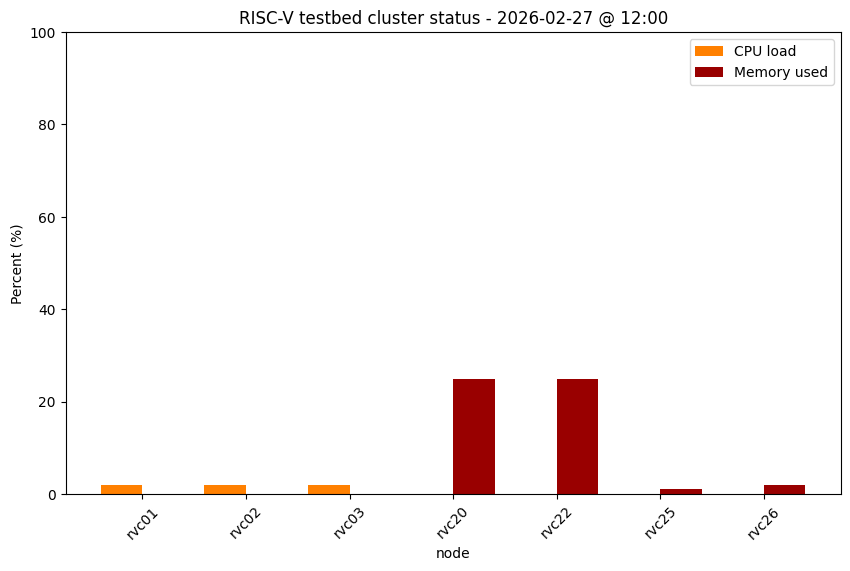
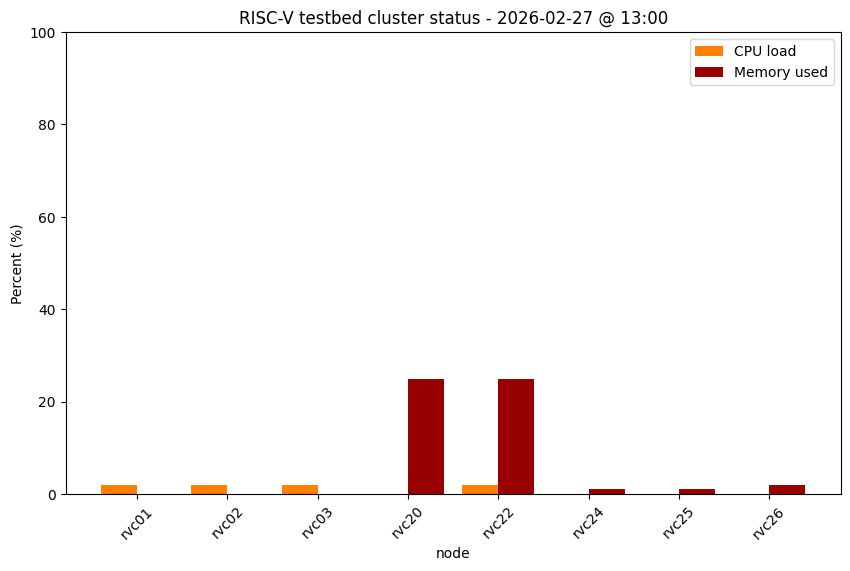
Update cluster status

diff --git a/status.md b/status.md
@@ -36,7 +36,7 @@ permalink: /status/
 | StarFive VisionFive V2 #11 | rvc21 | 4 | 8GB | <img src="/images/amber.png" alt="amber light" width="10"/> offline |
 | StarFive VisionFive V2 #12 | rvc22 | 4 | 8GB | <img src="/images/on.png" alt="green light" width="10"/> up |
 | StarFive VisionFive V2 #13 | rvc23 | 4 | 8GB | <img src="/images/amber.png" alt="amber light" width="10"/> offline |
-| Milk-V Pioneer #1 | rvc24 | 64 | 128GB | <img src="/images/off.png" alt="red light" width="10"/> down |
+| Milk-V Pioneer #1 | rvc24 | 64 | 128GB | <img src="/images/on.png" alt="green light" width="10"/> up |
 | Milk-V Pioneer #2 | rvc25 | 64 | 128GB | <img src="/images/on.png" alt="green light" width="10"/> up |
 | Milk-V Pioneer #3 | rvc26 | 64 | 128GB | <img src="/images/on.png" alt="green light" width="10"/> up |
 
